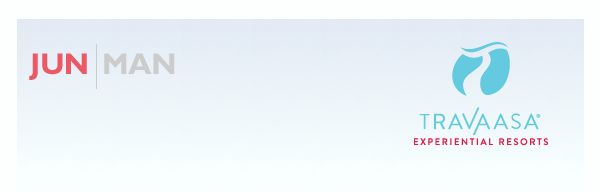
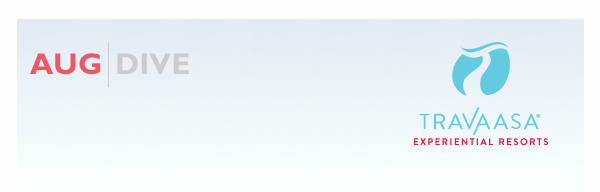
August newsletter

Changed region(s): [[0.03, 0.25, 0.33, 0.4375]]

diff --git a/newsletter/2013/august/index.html b/newsletter/2013/august/index.html
@@ -1,0 +1,80 @@
+<!DOCTYPE html PUBLIC "-//W3C//DTD XHTML 1.0 Transitional//EN" "http://www.w3.org/TR/xhtml1/DTD/xhtml1-transitional.dtd">
+<html xmlns="http://www.w3.org/1999/xhtml">
+<head>
+<meta http-equiv="Content-Type" content="text/html; charset=UTF-8" />
+<title>Travaasa | August, 2013</title><meta name="keywords" content="TRAVAASAAUSTINTRAVAASAHANATHEMAGICOFTRAVELTRAVAASAAUSTINTRAVAASAHANATHEMAGICOFTRAVELTRAVAASAAUSTINTRAVAASAHANATHEMAGICOFTRAVELTRAVAASAAUSTINTRAVAASAHANATHEMAGICOFTRAVELTRAVAASAAUSTINTRAVAASAHANATHEMAGICOFTRAVELTRAVAASAAUSTINTRAVAASAHANATHEMAGICOFTRAVELTRAVAASAAUSTINTRAVAASAHANATHEMAGICOFTRAVELTRAVAASAAUSTINTRAVAASAHANATHEMAGICOFTRAVELTRAVAASAAUSTINTRAVAASAHANATHEMAGICOFTRAVELTRAVAASAAUSTINTRAVAASAHANATHEMAGICOFTRAVELTRAVAASAAUSTINTRAVAASAHANATHEMAGICOFTRAVELTRAVAASAAUSTINTRAVAASAHANATHEMAGICOFTRAVELTRAVAASAAUSTINTRAVAASAHANATHEMAGICOFTRAVELTRAVAASAAUSTINTRAVAASAHANATHEMAGICOFTRAVELTRAVAASAAUSTINTRAVAASAHANATHEMAGICOFTRAVELTRAVAASAAUSTINTRAVAASAHANATHEMAGICOFTRAVELTRAVAASAAUSTINTRAVAASAHANATHEMAGICOFTRAVELTRAVAASAAUSTINTRAVAASAHANATHEMAGICOFTRAVELTRAVAASAAUSTINTRAVAASAHANATHEMAGICOFTRAVELTRAVAASAAUSTINTRAVAASAHANATHEMAGICOFTRAVELTRAVAASAAUSTINTRAVAASAHANATHEMAGICOFTRAVELTRAVAASAAUSTINTRAVAASAHANATHEMAGICOFTRAVELTRAVAASAAUSTINTRAVAASAHANATHEMAGICOFTRAVELTRAVAASAAUSTINTRAVAASAHANATHEMAGICOFTRAVELTRAVAASAAUSTINTRAVAASAHANATHEMAGICOFTRAVELTRAVAASAAUSTINTRAVAASAHANATHEMAGICOFTRAVELTRAVAASAAUSTINTRAVAASAHANATHEMAGICOFTRAVELTRAVAASAAUSTINTRAVAASAHANATHEMAGICOFTRAVELTRAVAASAAUSTINTRAVAASAHANATHEMAGICOFTRAVELTRAVAASAAUSTINTRAVAASAHANATHEMAGICOFTRAVELTRAVAASAAUSTINTRAVAASAHANATHEMAGICOFTRAVELTRAVAASAAUSTINTRAVAASAHANATHEMAGICOFTRAVELTRAVAASAAUSTITRAVAASAHANATHEMAGICOFTRAVELTRAVAASAAUSTINTRAVAASAHANATHEMAGICOFTRAVELTRAVAASAAUSTINTRAVAASAHANATHEMAGICOFTRAVELTRAVAASAAUSTINTRAVAASAHANATHEMAGICOFTRAVELTRAVAASAAUSTINTRAVAASAHANATHEMAGICOFTRAVELTRAVAASAAUSTINTRAVAASAHANATHEMAGICOFTRAVELTRAVAASAAUSTINTRAVAASAHANATHEMAGICOFTRAVELTRAVAASAAUSTINTRAVAASAHANATHEMAGICOFTRAVELTRAVAASAAUSTINTRAVAASAHANATHEMAGICOFTRAVELTRAVAASAAUSTINTRAVAASAHANATHEMAGICOFTRAVELTRAVAASAAUSTINTRAVAASAHANATHEMAGICOFTRAVELTRAVAASAAUSTINTRAVAASAHANATHEMAGICOFTRAVELTRAVAASAAUSTINTRAVAASAHANATHEMAGICOFTRAVELTRAVAASAAUSTINTRAVAASAHANATHEMAGICOFTRAVEL"/>
+</head>
+<body>
+<table cellpadding="14" cellspacing="0" border="0" width="100%">
+	<tr>
+    	<td width="100%" align="center" bgcolor="#EFEFEF">
+            <font face="Arial, Helvetica, sans-serif" size="2" style="font-weight:300">
+        	<table cellpadding="0" cellspacing="0" border="0" width="600">
+            	<tr>
+                	<td width="600" style="border:1px solid #CCCCCC; background-color:white;" align="left">
+                        <a href="http://travaasa.com/?NCK=8888792389"><img src="images/header.png" alt="July, 2013" style="margin:0;" border="0" /></a><div style="padding:0 30px; margin:0;"><p style="font-size:14px; line-height:160%; margin:0; color:#505050;">Need copy</p><br />
+                        </p></div>
+                        <!--<a href="http://www.travaasa.com/blog/travaasa-food-truck-fresh-green/?NCK=8888792389" target="_blank"><img src="images/feature-2013-july.jpg" alt="" style="margin:0;" border="0" /></a><br /><br />//-->
+
+                        <table cellpadding="18" cellspacing="0" border="0">
+                        	<tr>
+                            	<td colspan="2" align="left"><h2 style="color:#EA5965; font-size:15px; margin:0;">THIS MONTH</h2></td>
+                            </tr>
+                            <tr>
+                            	<td width="167" valign="top" style="border-bottom:1px solid #EDEDED;"><a href="http://www.travaasa.com/blog/seared-summer-scallops-fat-crawfish-etouffe/"><img src="images/thumb_aug_seared.jpg" alt="" style="border:1px solid #cccccc;" width="167" height="114" /></a></td>
+                            	<td valign="top" style="border-bottom:1px solid #EDEDED; padding-left:0;"><h3 style="margin:0; font-weight:300; color:#EA5965; font-size:16px;"><a href="http://www.travaasa.com/blog/seared-summer-scallops-fat-crawfish-etouffe/" style="color:#EA5965; text-decoration:none;">SEARED SUMMER SCALLOPS WITH LOW FAT CRAWFISH ETOUFFEE</a></h3><p style="margin-top:4px; font-size:11px; line-height: 14px; color: #454545;">Plunge into Dive Month with a delicious Southern seafood meal. Combine diver scallops and crawfish for a mouthwatering dish. Oh, and it's pretty healthy too. <a href="http://www.travaasa.com/blog/seared-summer-scallops-fat-crawfish-etouffe/" style="color:#EA5965;">more</a></p></td>
+                            </tr>
+                            <tr>
+                            	<td width="167" valign="top" style="border-bottom:1px solid #EDEDED;"><a href="http://www.travaasa.com/blog/spafinder-sweepstakes/"><img src="images/thumb_aug_summercamp.jpg" alt="" style="border:1px solid #cccccc;" width="167" height="114" /></a></td>
+                            	<td valign="top" style="border-bottom:1px solid #EDEDED; padding-left:0;"><h3 style="margin:0; font-weight:300; color:#EA5965; font-size:16px;"><a href="http://www.travaasa.com/blog/spafinder-sweepstakes/" style="color:#EA5965; text-decoration:none;">SUMMER CAMP + TEXAS = SUMMER "BOOT" CAMP AT TRAVAASA AUSTIN</a></h3><p style="margin-top:4px; font-size:11px; line-height: 14px; color: #454545;">Hurry, only a few days left to enter! We've teamed up with SpaFinder for an Adult Summer Boot Camp Sweepstakes. Enter by August 15, and you could win a three-day/two-night stay for two at Travaasa Austin. <a href="http://www.travaasa.com/blog/spafinder-sweepstakes/" style="color:#EA5965;">more</a></p></td>
+                            </tr>
+                            <tr>
+                            	<td width="167" valign="top" style="border-bottom:1px solid #EDEDED;"><a href="http://www.travaasa.com/blog/hula-hooping-kite-flying-hawaaiin-style"><img src="images/thumb_aug_innerchild.jpg" alt="" style="border:1px solid #cccccc;" width="167" height="114" /></a></td>
+                            	<td valign="top" style="border-bottom:1px solid #EDEDED; padding-left:0;"><h3 style="margin:0; font-weight:300; color:#EA5965; font-size:16px;"><a href="http://www.travaasa.com/blog/hula-hooping-kite-flying-hawaaiin-style" style="color:#EA5965; text-decoration:none;">CHANNEL YOUR INNER CHILD...HAWAIIAN STYLE</a></h3><p style="margin-top:4px; font-size:11px; line-height: 14px; color: #454545;">Who says you have to be a grown-up? You're on vacation! Immerse yourself in the Hawaiian culture, and remember what it feels like to be a kid again with a new Hula-Hooping Class and Kite Flying at Travaasa Hana. <a href="http://www.travaasa.com/blog/hula-hooping-kite-flying-hawaaiin-style" style="color:#EA5965;">more</a></p></td>
+                            </tr>
+                            <tr>
+                            	<td width="167" valign="top" style="border-bottom:1px solid #EDEDED;"><a href="http://www.travaasa.com/blog/reduce-reuse-refresh"><img src="images/thumb_aug_reduce.jpg" alt="" style="border:1px solid #cccccc;" width="167" height="114" /></a></td>
+                            	<td valign="top" style="border-bottom:1px solid #EDEDED; padding-left:0;"><h3 style="margin:0; font-weight:300; color:#EA5965; font-size:16px;"><a href="http://www.travaasa.com/blog/reduce-reuse-refresh" style="color:#EA5965; text-decoration:none;">REDUCE, REUSE, REFRESH!</a></h3><p style="margin-top:4px; font-size:11px; line-height: 14px; color: #454545;">Less is more here at Travaasa. In our most recent effort to cut down on our carbon footprint, we'll be offering guests something much more friendly to Mother Earth at check-in. <a href="http://www.travaasa.com/blog/reduce-reuse-refresh" style="color:#EA5965;">more</a></p></td>
+                            </tr>
+                        </table>
+                        <br />
+                        <table cellpadding="20" cellspacing="0" border="0" width="100%" bgcolor="#EA5965">
+                        	<tr>
+                            	<td width="100%" valign="top" align="center"><font color="#FFFFFF"><p style="font-size:22px; margin:8px 0 12px;"><em>"Stayed recently two nights and had a blast. Excellent service, amazing views and a very cool philosophy. Just what the GF and I needed to get away for a few days. We spent one day by the gorgeous infinity pool and one day doing all of the activities. Jean’s Kitchen was amazing as well."</em></p><p style="font-size:10px;">- Foodiscoo, sharing his experience at Travaasa Austin on <em>TripAdvisor</em></p></font></td>
+                            </tr>
+                        </table>
+                        <br />
+                        <table cellpadding="18" cellspacing="0" border="0">
+                        	<tr>
+                            	<td align="left">
+                                <h2 style="color:#EA5965; font-size:15px;">ON THE HORIZON</h2>
+                                    <h4 style="font-size:23px; font-weight:300; margin-bottom:8px;">September</h4>
+                                    <p style="margin-top:0; color: #454545; font-size: 13px; line-height: 18px;">Uncover and discover the best of life at Travaasa Austin and Hana as you step into fall.
+The summer renovations will reveal two new outdoor adventure elements that bring more speed and adrenaline to the already exciting High Ropes Course: a BMX Pump Bike Course and a Giant Swing.<br /><br />
+ 
+For all of our yogis out there, join us as we celebrate <a href="http://www.travaasa.com/blog/september-uncover-month-travaasa-2/" style="color:#EA5965;"><em>National Yoga</em></a> Month with Chakra-Centered Yoga, Neck and Shoulder Yoga Therapy, Spa Experience Meditation and Yoga Mudras – Honoring the Essentials. Show your competitive side in the Hana Relay, and step up to a cooking challenge in the Mystery Box Challenge in Austin.</p>
+                                    <h4 style="font-size:23px; font-weight:300; margin-bottom:8px;">October</h4>
+                                    <p style="margin-top:0; color: #454545; font-size: 13px; line-height: 18px;">Harvest your best memories during <a href="http://www.travaasa.com/blog/october-harvest-month-travaasa-2/" style="color:#EA5965;"><em>Harvest</em></a> Month at Travaasa Austin and Hana this October. From Pilates Seeds for Centering to Go Nuts with Coconuts, our fitness classes this month will put you in the fall mood. There's more to pumpkin than a jack-o'-lantern or Grandma's pie! Learn several delectable ways to prepare pumpkin and squash. Participate in Brewing Pumpkins where our beermeister has selected seasonal brews and pumpkin ales for you to sample and toast to the spirit of the season.<br /><br />
+
+Join us for the Joyful Horse Project Tribute Benefit Concert at Travaasa Austin, October 18, 2013, where Mike Beck will be performing an acoustic solo benefit concert in support of this project and our veterans program.<br /><br />
+
+Aloha Week kicks off October 19 with a parade in Hana. The weeklong festivities continue with live music and entertainment, Hawaiian games, outdoor adventures, cultural tours and more to celebrate Hawaiian culture in Hana.
+</p></td>
+                            </tr>
+                        </table>
+                    </td>
+                </tr>
+                <tr>
+                	<td style="padding-top:14px;"><a href="http://www.facebook.com/Travaasa"><img src="images/footer-fb.gif" alt="Facebook" border="0" /></a><a href="http://twitter.com/travaasa"><img src="images/footer-tw.gif" alt="Twitter" border="0" /></a><a href="http://preferredhotelgroup.com/preferred-boutique/"><img src="images/footer-pb.gif" alt="Preferred Boutique" border="0" /></a><a href="http://www.tripadvisor.com/"><img src="images/footer-trip.gif" alt="Trip Advisor" border="0" /></a><a href="http://yelp.com"><img src="images/footer-yelp.gif" alt="Yelp" border="0" /></a></td>
+                </tr>
+                <tr>
+                	<td style="padding-top:14px;" align="center"><p style="color:#ABABAB; font-size:11px;">&copy;2013 Travaasa Experiential Resorts&reg;  |  <a href="http://www.data2gold.com/gallery/travaasa/eClub/eClub.html" style="color:#ABABAB;">Become an Iprefer&trade; Member</a><br />1-855-TO-TRAVAASA (855-868-7282)</p></td>
+                </tr>
+            </table>
+            <p style="font-size:10px; color:#999" align="center">Diacritical marks have been removed for online formatting purposes.</p>
+            </font>
+        </td>
+    </tr>
+</table>
+</body>
+</html>
